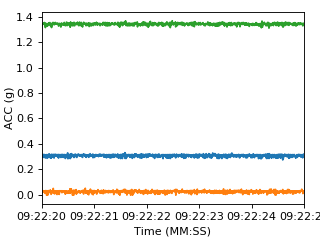
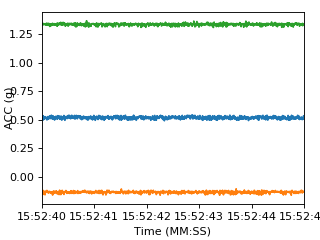
psd plot updated

diff --git a/gom_adxl362_v06e/pitft/pitft.py b/gom_adxl362_v06e/pitft/pitft.py
@@ -28,6 +28,8 @@ import os
 import matplotlib.dates as mdates
 from scipy import signal
 import array as array_
+import multiprocessing
+import logging
 
 
 # BUTTON SETTING
@@ -66,11 +68,17 @@ NFFT = 2**9
 dataBuff = []       # data buffer 
 xaxislimit = [0, 0] # of the next time history plot 
 data4plot = []      # data corresponding to xaxislimit
+lock_data4plot = multiprocessing.Lock()
 
 # STATUS LED
 statusLED = 0
 statusLED_PIN = 21
 count_toggleStatusLED = 0
+
+plotUpdated = multiprocessing.Value('i', 0)
+lock_plotUpdated = multiprocessing.Lock()
+nAverageOfPSD = multiprocessing.Value('i', 0)
+Pxx = multiprocessing.Array('d', [0.0]* (3*(int(NFFT/2)+1)))
 
 def pushButton_Polling():
     
@@ -99,15 +107,24 @@ def guiOnOff(x):
         pygame.display.quit()
     return
 
-def plotTimeHistory():
-    global data4plot, Fs, dt
-    global pygame, lcd
-     
+def genTimeHistoryPlot(
+        data4plot, lock_data4plot, plotUpdated, lock_plotUpdated):
+    #global data4plot, Fs, dt
+    #global pygame, lcd
+    import datetime
+    from matplotlib.pyplot import plot, ylabel, xlabel, gca, subplots_adjust, savefig, close
+    import matplotlib.dates as mdates
+
     dpi = 80
     figure(1, figsize=(320/dpi, 240/dpi))
     clf()
+     
     # import pdb;pdb.set_trace()
+     
+    lock_data4plot.acquire()
     plot(data4plot[:,0], data4plot[:,1:])
+    lock_data4plot.release()
+     
     ylabel('ACC (g)')
     xlabel('Time (MM:SS)')
     gca().xaxis.set_major_formatter(mdates.DateFormatter('%H:%M:%S'))
@@ -117,57 +134,89 @@ def plotTimeHistory():
     subplots_adjust(left=0.13, bottom=0.15, right=0.95, top=0.95)
     savefig('.thp.png', dpi=80)
     close(1)
-     
-    pygame.display.init()
-    pygame.mouse.set_visible(False)
-    lcd = pygame.display.set_mode((320, 240))
-     
-    feed_surface = pygame.image.load('.thp.png')
-    lcd.blit(feed_surface, (0, 0))
-    pygame.display.update()
+    
+    lock_plotUpdated.acquire()
+    plotUpdated.value = 1
+    lock_plotUpdated.release()
+   
     # print('timehistoryPlot executed')
+
     return
 
-def plotPSD():
-    global dataPSD, nAverageOfPSD, NFFT, Pxx, Fs
+def displayGraph(graphType, resampledData):
+    # graphType = 0: TimeHistory Plot
+    #             1: PSD plot
+    global lock_data4plot, pygame, lcd, plotUpdated, lock_plotUpdated
+    global nAverageOfPSD, Pxx
 
-    nAverageOfPSD += 1
+    logger  = logging.getLogger(__name__)
+    
+    if not resampledData:
+        return
+    
+    if storeData(resampledData):
+        # MULTIPROCESSING 
+        plotUpdated.value = 0
+
+        if graphType == 0:  # time history plot 
+            p = multiprocessing.Process(target=genTimeHistoryPlot,args=(
+                data4plot, lock_data4plot, plotUpdated, lock_plotUpdated,))
+            p.start()
+        elif graphType == 1: # PSD plot 
+            # genPSD_Plot
+            p = multiprocessing.Process(target=genPSD_Plot,args=(
+                data4plot, lock_data4plot, plotUpdated, lock_plotUpdated,
+                Fs, NFFT, nAverageOfPSD, Pxx))
+            p.start()
+
+    # DRAW PLOT IF UPDATED
+    lock_plotUpdated.acquire()
+    if plotUpdated.value == 1:
+        feed_surface = pygame.image.load('.thp.png')
+        lcd.blit(feed_surface, (0, 0))
+        pygame.display.update()
+        plotUpdated.value = 0
+    lock_plotUpdated.release()
+    
+    return
+
+def genPSD_Plot(data4plot, lock_data4plot, plotUpdated, lock_plotUpdated,
+                Fs, NFFT, nAverageOfPSD, Pxx):
+    from matplotlib.pyplot import semilogy, ylabel, xlabel, gca, subplots_adjust, savefig, close
+    from scipy import signal
+    from numpy import array, transpose 
+
+    nAverageOfPSD.value += 1
+    Pxx_ = array(Pxx).reshape((3,int(NFFT/2)+1)).transpose()
+
+    n = nAverageOfPSD.value 
+    # logger = logging.getLogger(__name__)
     dpi = 80
     figure(1, figsize=(320/dpi, 240/dpi))
     clf()
+    lock_data4plot.acquire()
     for i in range(3):
-        f, Pxx_ = signal.welch(signal.detrend(data4PSD[:, i]), int(Fs), nperseg=NFFT)
-        Pxx[:, i] = (nAverageOfPSD - 1) / nAverageOfPSD * Pxx[:, i] + Pxx_ / (nAverageOfPSD)
-        semilogy(f, Pxx[:, i])
+        f, Pxx__ = signal.welch(signal.detrend(data4plot[:, i+1]), int(Fs),
+                                nperseg=NFFT)
+        Pxx_[:, i] = (n-1.0)/n*Pxx_[:, i] + Pxx__/n    
+        semilogy(f, Pxx_[:,i])
+    lock_data4plot.release()
     xlabel('Frequency (Hz)')
     ylabel('PSD (g^2/Hz)')
     Fn = Fs/2
     gca().set_xlim([0, Fn])
     gca().yaxis.set_label_coords(-0.10, 0.5)
     subplots_adjust(left=0.13, bottom=0.15, right=0.95, top=0.95)
-    savefig('.psd.png', dpi=80)
+    lock_plotUpdated.acquire()
+    savefig('.thp.png', dpi=80)
+    plotUpdated.value = 1
+    lock_plotUpdated.release()
     close(1)
 
-    pygame.display.init()
-    pygame.mouse.set_visible(False)
-    lcd = pygame.display.set_mode((320, 240))
-    feed_surface = pygame.image.load('.psd.png')
-    lcd.blit(feed_surface, (0, 0))
-    pygame.display.update()
-    sleep(0.05)
-    return
-
-def displayGraph(graphType, resampledData):
-    if not resampledData:
-        return
-    if storeData(resampledData):
-        # print('true from storeData')
-        
-        if graphType == 0:
-            plotTimeHistory()
-        elif graphType = 1:
-            plotPSD()
-            
+    # RETURNING Pxx average
+    for i in range(3):
+        for j in range(int(NFFT/2)+1):
+            Pxx[i*(int(NFFT/2)+1)+j] = Pxx_[j,i]
     return
 
     
@@ -175,7 +224,7 @@ def storeData(resampledData):
     global dataBuff, xaxislimit, data4plot, timeLengthPlot
 
     data4plot_Ready = False
-    
+
     for dataRow in resampledData:
         tk = dataRow[0]
         if xaxislimit[0] == 0:
@@ -187,7 +236,11 @@ def storeData(resampledData):
             dataBuff.append([datetime.datetime.fromtimestamp(tk)] + \
                              dataRow[1:])
         elif xaxislimit[1] <= tk:
+
+            lock_data4plot.acquire()
             data4plot = array(dataBuff)
+            lock_data4plot.release()
+            
             dataBuff = []
             xaxislimit = [round(tk/timeLengthPlot)*timeLengthPlot,
                           round(tk/timeLengthPlot)*timeLengthPlot + timeLengthPlot]

diff --git a/gom_adxl362_v06e/gom_adxl362_v06e_400Hz.py b/gom_adxl362_v06e/gom_adxl362_v06e_400Hz.py
@@ -119,9 +119,11 @@ def pushButton_keyStroke_callback():
     keyStroke.keyNumber = 0
 
     # ON/OFF GUI
-    if state_guiOnOff[state[1]] == 0:
-        # pitft.guiOnOff(state_guiOnOff[state[1]])
-        pitft.guiOnOff(0)
+    if arduinoCMD:
+        pitft.guiOnOff(state_guiOnOff[state[1]])
+        #if state_guiOnOff[state[1]] == 0:
+        #pitft.guiOnOff(state_guiOnOff[state[1]])
+        # pitft.guiOnOff(0)
 
     # SENDING arduinoCMD
     if arduinoCMD:
@@ -163,6 +165,7 @@ def parse_rx_buff():
                 printed_with_end_option = False 
             try:
                 msg = shm_serial.rx_buff[:match.start()].decode('UTF-8')
+                msg = msg + ' ' * (53 - len(msg))
                 logger.info(msg)
             except:
                 logger.debug("decoding message of msgID=0 failed. Byte array={}".format(
@@ -351,12 +354,12 @@ try:
         # STORE AND DISPLAY DATA
         #
 
-        if not resampledData:
+        if resampledData:
             if accDAQfile.save(resampledData):
                 pitft.toggleStatusLED(5)
 
             if state[1] > 3:
-                pitft.displayGraph(state[1], resampledData)
+                pitft.displayGraph(state[1]-4, resampledData)
                 pitft.display_time()
             
             #if state_guiOnOff[state[1]] == 1:

diff --git a/learning_python/multiprocessing/multiprocessing-hello-world1.py b/learning_python/multiprocessing/multiprocessing-hello-world1.py
@@ -1,0 +1,16 @@
+#!/usr/bin/python3
+
+import multiprocessing
+
+def worker(i):
+    """worker function"""
+    print('worker {}'.format(i))
+    return
+
+if __name__ == '__main__':
+    jobs = []
+    for i in range(5):
+        p = multiprocessing.Process(target=worker,args=(i,))
+        jobs.append(p)
+        p.start()
+        

diff --git a/learning_python/multiprocessing/multiprocessing-hello-world2.py b/learning_python/multiprocessing/multiprocessing-hello-world2.py
@@ -1,0 +1,13 @@
+#!/usr/bin/python3
+
+import multiprocessing
+import multiprocessing_import_worker
+
+
+if __name__ == '__main__':
+    jobs = []
+    for i in range(5):
+        p = multiprocessing.Process(target=multiprocessing_import_worker.worker,args=(i,))
+        jobs.append(p)
+        p.start()
+        

diff --git a/learning_python/multiprocessing/multiprocessing_import_worker.py b/learning_python/multiprocessing/multiprocessing_import_worker.py
@@ -1,0 +1,4 @@
+def worker(i):
+    """worker function"""
+    print ('Worker {}'.format(i))
+    return
